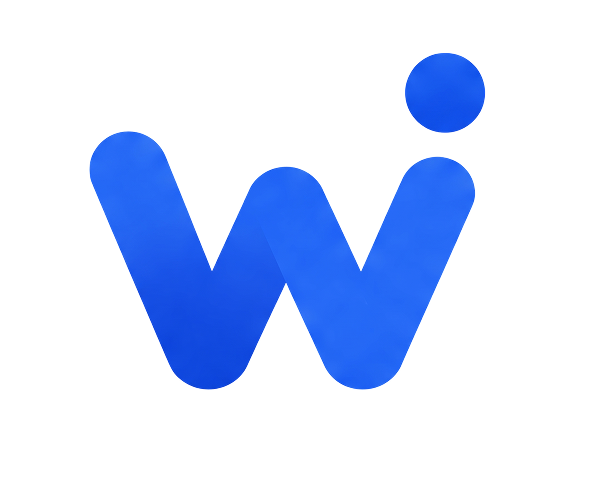
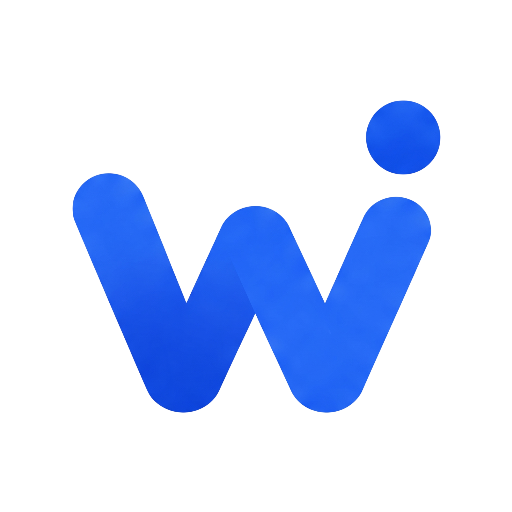
[#34] feat: 스플래시 화면 UI 구성 - 스플래시 페이지 생성 - 앱 로고 이미지 추가 - 스플래시 화면 UI 구현

diff --git a/front/src/pages/splash/SplashPage.vue b/front/src/pages/splash/SplashPage.vue
@@ -1,0 +1,85 @@
+<script setup>
+import { onMounted, onUnmounted } from 'vue';
+import { useRouter } from 'vue-router';
+import splashLogo from '@/assets/images/splash-logo.png';
+
+const router = useRouter();
+
+// 스플래시 노출 시간 (ms)
+const SPLASH_DURATION = 2000;
+
+let redirectTimer = null;
+
+// TODO: 로그인 상태 확인은 추후 Auth Store 구현 이슈에서 처리한다.
+// 현재는 온보딩 완료 여부(localStorage.onboardingCompleted)만으로 분기한다.
+// onboardingCompleted === 'true'  → /login (로그인 화면 Placeholder)
+// 그 외(false/없음)              → /onboarding (온보딩 화면 Placeholder)
+function redirectToNextPage() {
+  const onboardingCompleted = localStorage.getItem('onboardingCompleted') === 'true';
+  router.replace(onboardingCompleted ? '/login' : '/onboarding');
+}
+
+onMounted(() => {
+  redirectTimer = setTimeout(redirectToNextPage, SPLASH_DURATION);
+});
+
+onUnmounted(() => {
+  if (redirectTimer) clearTimeout(redirectTimer);
+});
+</script>
+
+<template>
+  <div
+    class="relative flex flex-col items-center justify-center w-full h-dvh bg-white px-6 overflow-hidden"
+  >
+    <!-- 앱 로고 -->
+    <img
+      :src="splashLogo"
+      alt="Workit 로고"
+      class="w-[150px] h-auto select-none"
+      draggable="false"
+    />
+
+    <!-- 앱 이름 -->
+    <h1
+      class="mt-7 text-[32px] font-bold leading-tight tracking-tight text-[#191F28]"
+    >
+      Workit
+    </h1>
+
+    <!-- 태그라인 -->
+    <p class="mt-2 text-[15px] font-medium tracking-wide text-[#7186A0]">
+      Smart Wallet
+    </p>
+
+    <!-- 하단 로딩 바 (Figma 기준 파란 진행 표시 — 왼쪽→오른쪽으로 천천히 차오름) -->
+    <div
+      class="absolute left-0 right-0 bottom-[max(env(safe-area-inset-bottom),32px)] flex justify-center"
+    >
+      <div class="w-[120px] h-[3px] rounded-full bg-[#DFE7F0] overflow-hidden">
+        <div
+          class="splash-progress-fill h-full rounded-full bg-[#2878F0]"
+          :style="{ animationDuration: `${SPLASH_DURATION}ms` }"
+        />
+      </div>
+    </div>
+  </div>
+</template>
+
+<style scoped>
+.splash-progress-fill {
+  width: 0;
+  animation-name: splash-progress-fill;
+  animation-timing-function: linear;
+  animation-fill-mode: forwards;
+}
+
+@keyframes splash-progress-fill {
+  from {
+    width: 0;
+  }
+  to {
+    width: 100%;
+  }
+}
+</style>
